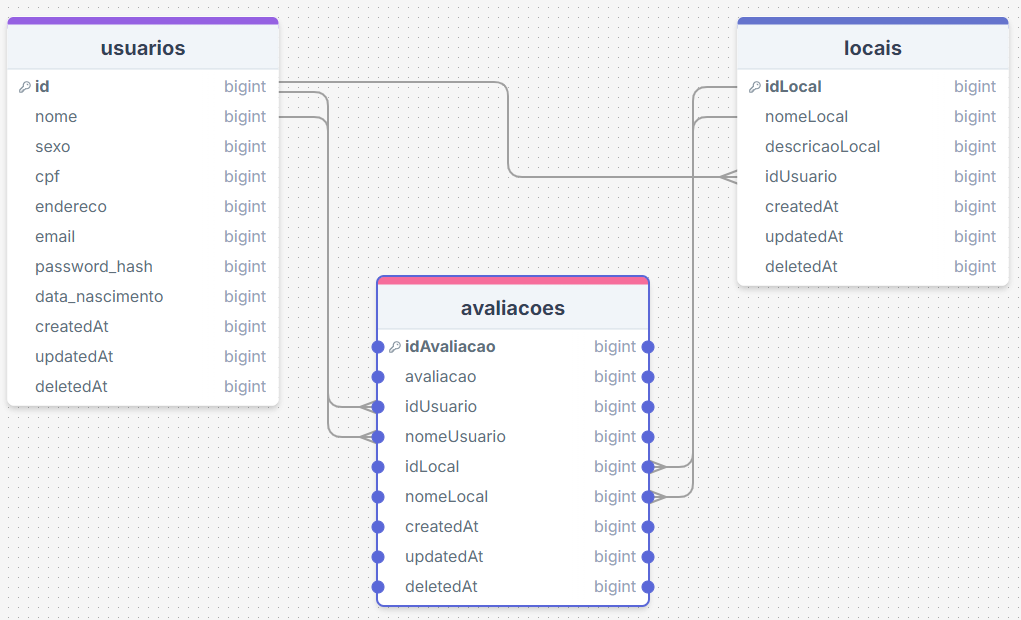
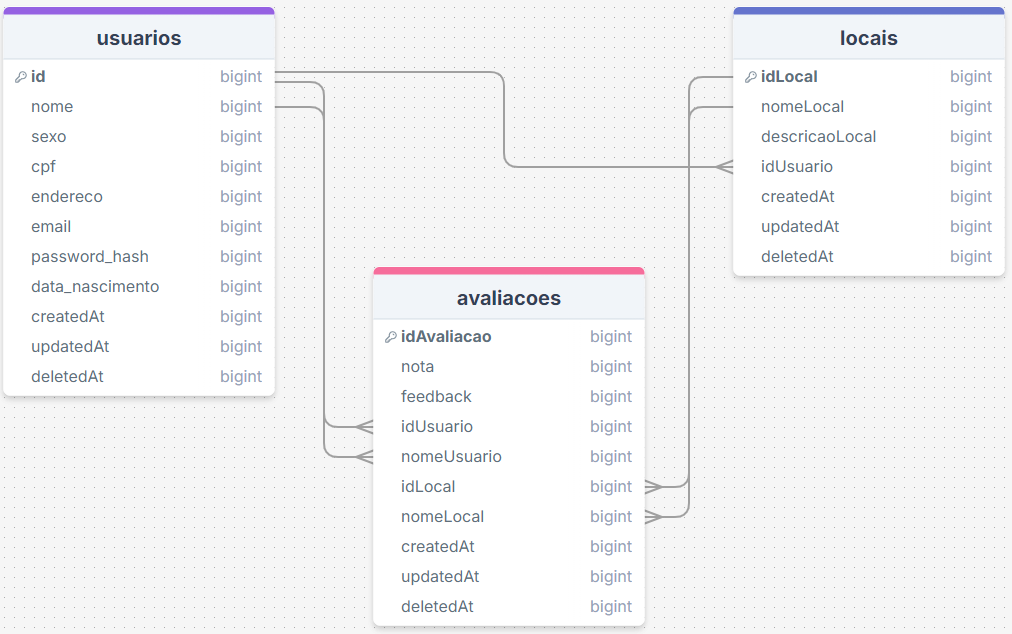
:bulb:migrations completas

diff --git a/src/database/migrations/20240922192230-create-reviews-table.js b/src/database/migrations/20240922192230-create-reviews-table.js
@@ -1,0 +1,76 @@
+"use strict";
+
+const { all } = require("axios");
+
+/** @type {import('sequelize-cli').Migration} */
+module.exports = {
+  async up(queryInterface, Sequelize) {
+    await queryInterface.createTable("avaliacoes", {
+      idAvaliacao: {
+        type: Sequelize.INTEGER,
+        allowNull: false,
+        autoIncrement: true,
+        primaryKey: true,
+      },
+      nota: {
+        type: Sequelize.DECIMAL(2, 1),
+        allowNull: false,
+        validate: {
+          min: 0.0,
+          max: 5.0,
+        },
+      },
+      feedback: {
+        type: Sequelize.TEXT(250),
+        allowNull: true,
+      },
+      idUsuario: {
+        type: Sequelize.INTEGER,
+        allowNull: false,
+        reference: {
+          model: "Usuario",
+          key: "id",
+        },
+        nomeUsuario: {
+          type: Sequelize.STRING,
+          allowNull: false,
+          reference: {
+            model: "Usuario",
+            key: "nome",
+          },
+        },
+        idLocal: {
+          type: Sequelize.INTEGER,
+          allowNull: false,
+          reference: {
+            model: "Local",
+            key: "idLocal",
+          },
+        },
+        nomeLocal: {
+          type: Sequelize.STRING,
+          allowNull: false,
+          reference: {
+            model: "Local",
+            key: "nomeLocal",
+          },
+        },
+        createdAt: {
+          type: Sequelize.DATE,
+          allowNull: false,
+        },
+        updatedAt: {
+          type: Sequelize.DATE,
+          allowNull: false,
+        },
+        deletedAt: {
+          type: Sequelize.DATE,
+        },
+      },
+    });
+  },
+
+  async down(queryInterface, Sequelize) {
+    await queryInterface.dropTable("avaliacoes");
+  },
+};

diff --git a/src/models/Usuario.js b/src/models/Usuario.js
@@ -1,8 +1,18 @@
 const { DataTypes } = require("sequelize");
 const connection = require("../database/connection");
+const { hashSync } = require("bcryptjs");
 
-const Usuario = connection.define("users", {
-  username: {
+const Usuario = connection.define("usuarios", {
+  nome: {
+    type: DataTypes.STRING,
+  },
+  sexo: {
+    type: DataTypes.STRING,
+  },
+  cpf: {
+    type: DataTypes.STRING,
+  },
+  endereco: {
     type: DataTypes.STRING,
   },
   email: {
@@ -11,6 +21,16 @@ const Usuario = connection.define("users", {
   password_hash: {
     type: DataTypes.STRING,
   },
+  data_nacimento: {
+    type: DataTypes.STRING,
+  },
+});
+
+Usuario.beforeSave((usuario) => {
+  if (usuario.password_hash) {
+    usuario.password_hash = hashSync(usuario.password_hash, 10);
+  }
+  return usuario;
 });
 
 module.exports = Usuario;

diff --git a/src/database/migrations/20240920101903-create-location-table.js b/src/database/migrations/20240920101903-create-location-table.js
@@ -26,7 +26,7 @@ module.exports = {
           type: Sequelize.INTEGER,
           allowNull: false,
           references: {
-            model: "usuarios",
+            model: "Usuario",
             key: "id",
           },
         },
@@ -45,11 +45,6 @@ module.exports = {
   },
 
   async down(queryInterface, Sequelize) {
-    /**
-     * Add reverting commands here.
-     *
-     * Example:
-     * await queryInterface.dropTable('users');
-     */
+    await queryInterface, dropTable("locais");
   },
 };

diff --git a/src/database/migrations/20240920100730-create-users-table.js b/src/database/migrations/20240920100730-create-users-table.js
@@ -8,7 +8,7 @@ module.exports = {
     await queryInterface.createTable("usuarios", {
       id: {
         autoIncrement: true,
-        primaryKeytrue,
+        primaryKey: true,
         type: Sequelize.INTEGER,
         allowNull: false,
       },
